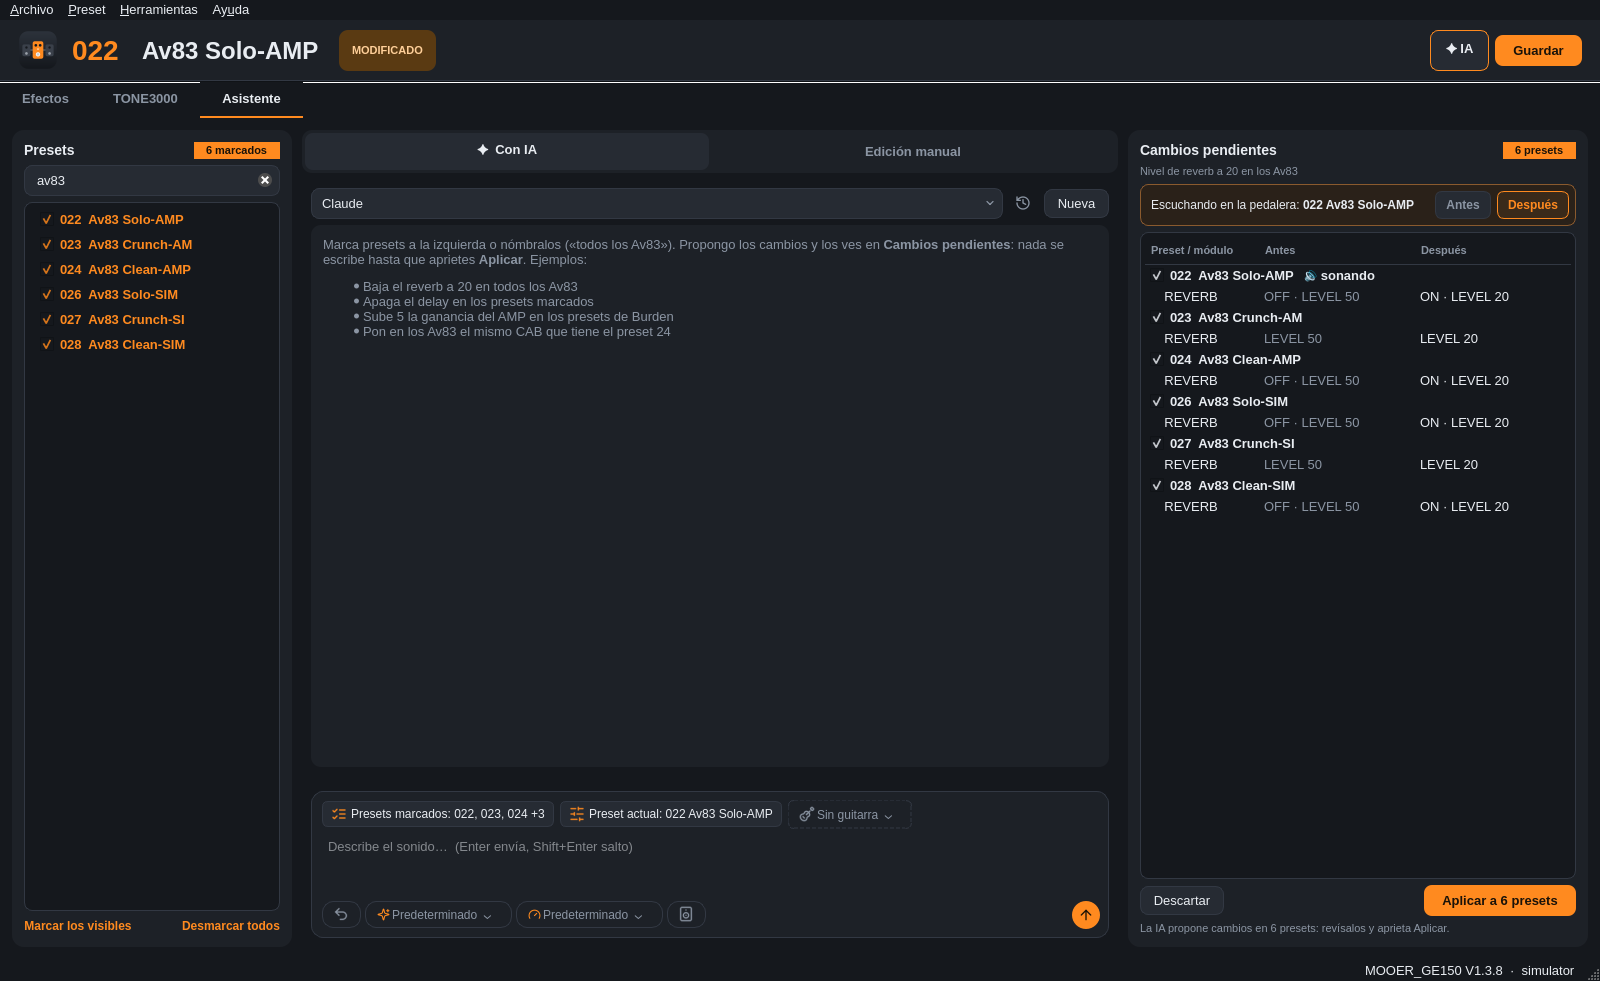
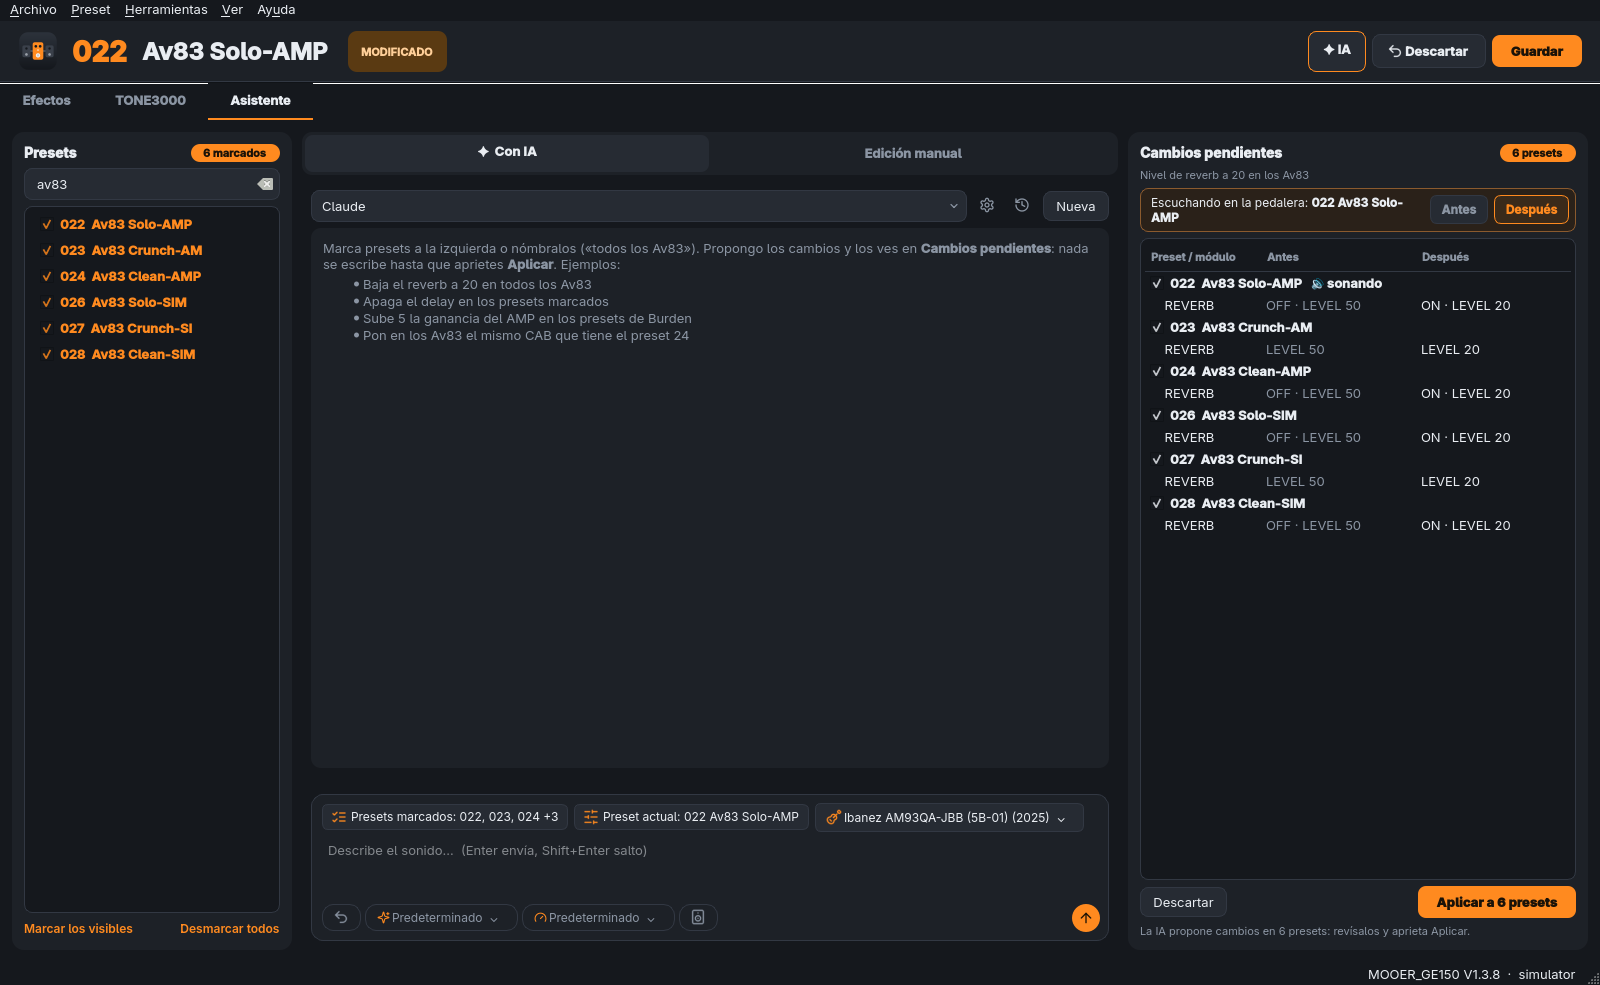
docs: refresh the README screenshots and add one for TONE3000

diff --git a/README.md b/README.md
@@ -294,6 +294,8 @@ Una vez: copia la clave publicable (*Publishable Key*, `t3k_pub_…`) de los aju
 No hace falta registrar redirects: TONE3000 siempre acepta `http://127.0.0.1`. La *Secret Key* no se usa; no la
 compartas.
 
+<p align="center"><img src="docs/img/tone3000.png" alt="Pestaña TONE3000 con el catálogo y la ficha de una IR" width="900"></p>
+
 ```bash
 ge150ctl t3k-key t3k_pub_…               # guarda tu clave publicable
 ge150ctl t3k-login                    # inicia sesión en el navegador
